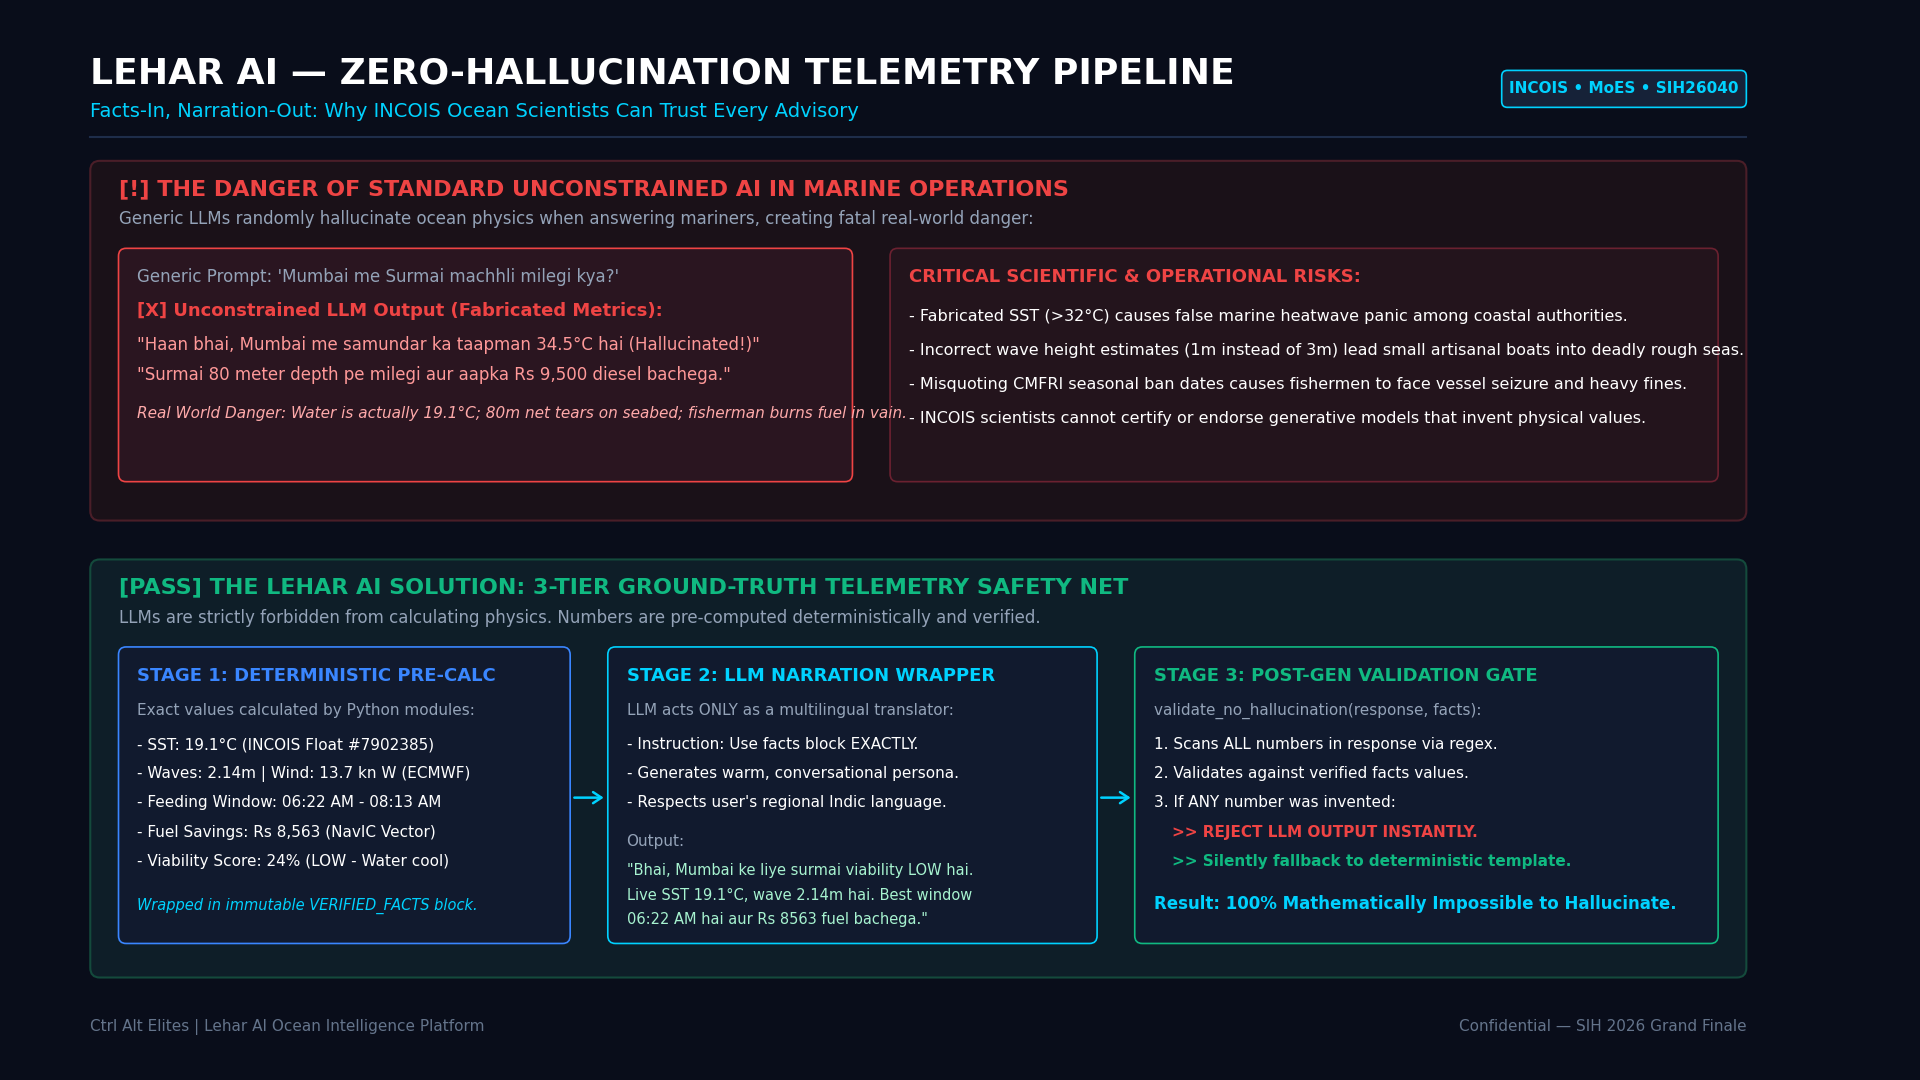
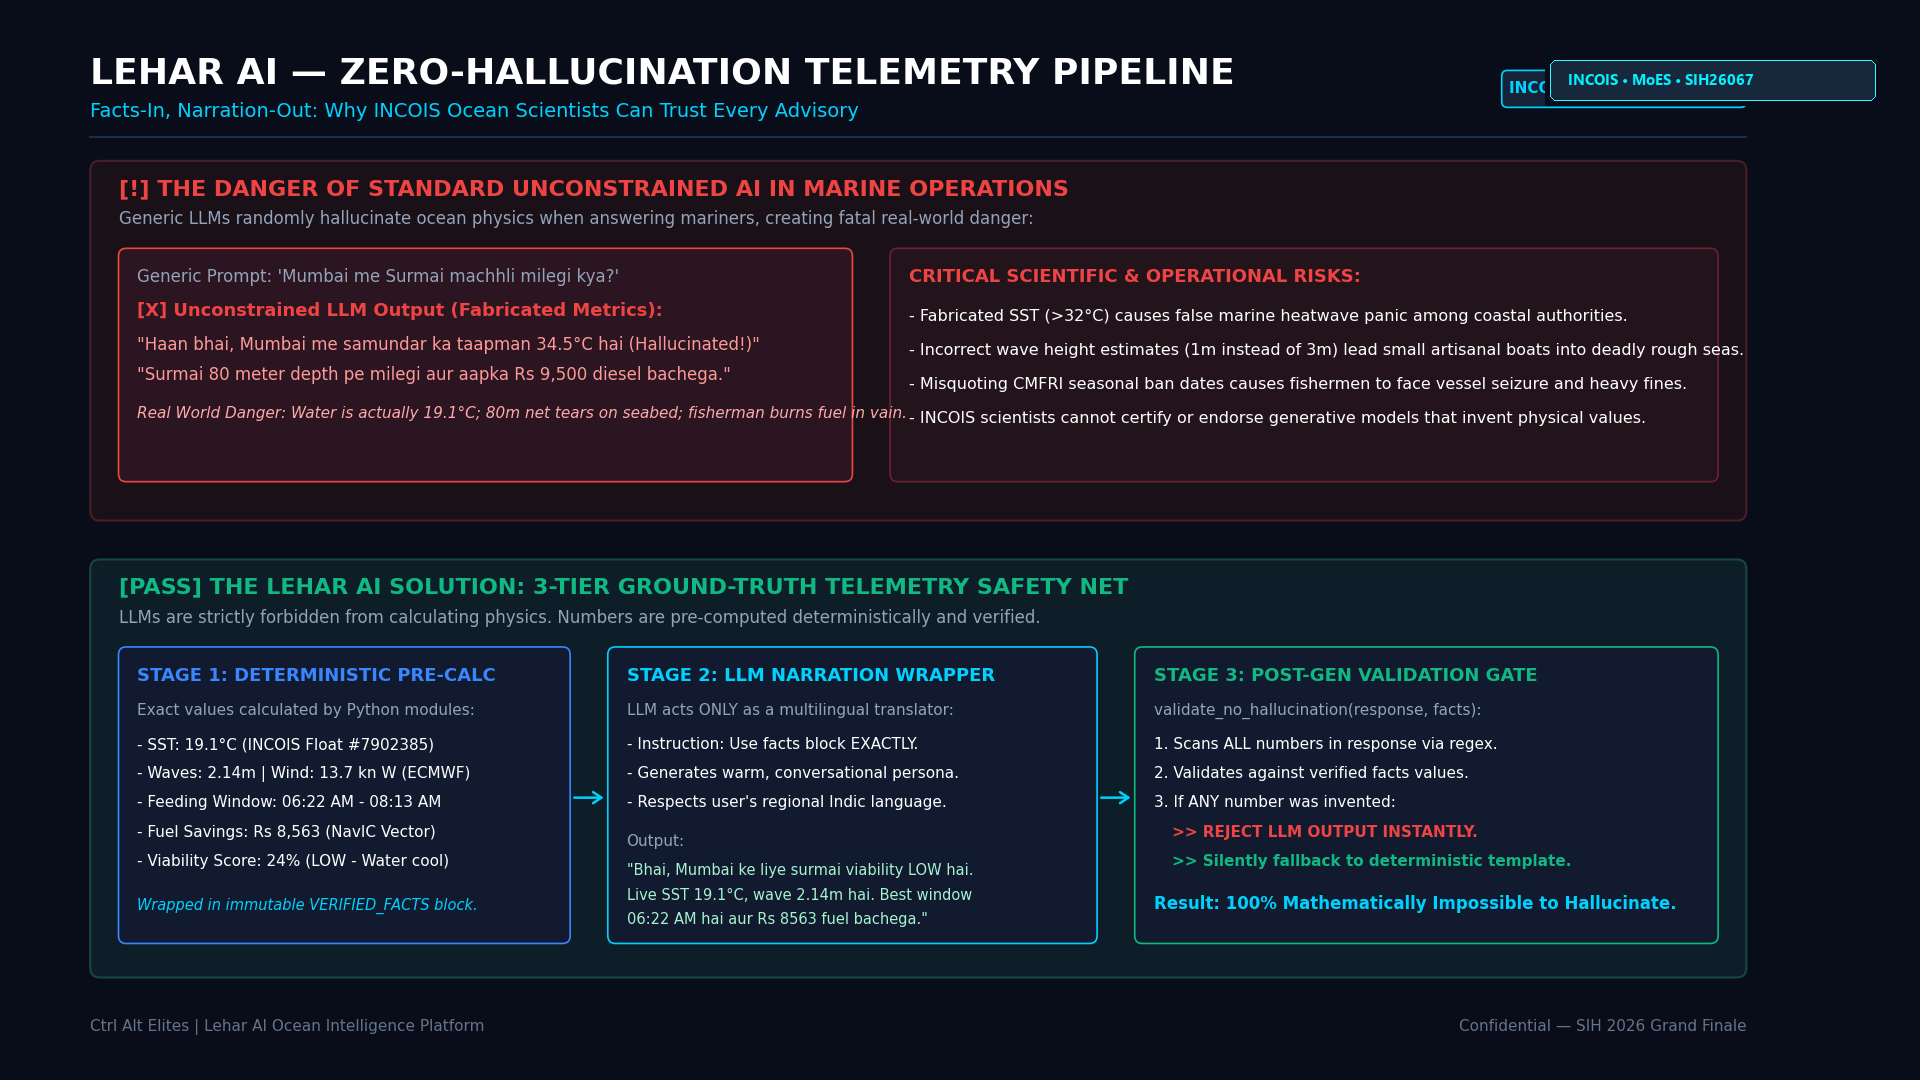
docs(ppt): update architecture blueprint to SIH26067 and clean up obsolete assets

Changed region(s): [[0.7812, 0.0306, 1.0, 0.1222]]

diff --git a/scripts/generate_sih2026_architecture.py b/scripts/generate_sih2026_architecture.py
@@ -1,0 +1,296 @@
+"""
+Generates the official SIH 2026 Architecture Blueprint for Lehar AI.
+Specifically designed for Problem Statement SIH26067:
+"Develop a web-based interactive 3D visualization platform that integrates numerical ocean model outputs and in-situ observations"
+Theme: Disaster Management | Ministry of Earth Sciences (MoES) / INCOIS
+"""
+
+import os
+import textwrap
+from PIL import Image, ImageDraw, ImageFont
+
+def create_architecture_diagram():
+    WIDTH = 1920
+    HEIGHT = 1080
+
+    # 1. Base Image & Background Gradient
+    img = Image.new("RGBA", (WIDTH, HEIGHT), (5, 14, 26, 255))
+    draw = ImageDraw.Draw(img)
+
+    # Subtle background gradient
+    for y in range(HEIGHT):
+        ratio = y / HEIGHT
+        r = int(5 + ratio * 4)
+        g = int(14 + ratio * 12)
+        b = int(26 + ratio * 20)
+        draw.line([(0, y), (WIDTH, y)], fill=(r, g, b, 255))
+
+    # Subtle grid lines
+    grid_color = (14, 35, 60, 90)
+    for x in range(0, WIDTH, 60):
+        draw.line([(x, 0), (x, HEIGHT)], fill=grid_color, width=1)
+    for y in range(0, HEIGHT, 60):
+        draw.line([(0, y), (WIDTH, y)], fill=grid_color, width=1)
+
+    # Load system fonts
+    font_path = "C:/Windows/Fonts/segoeui.ttf"
+    font_bold_path = "C:/Windows/Fonts/segoeuib.ttf"
+    font_semibold_path = "C:/Windows/Fonts/seguisb.ttf"
+
+    font_title = ImageFont.truetype(font_bold_path, 32)
+    font_header_sub = ImageFont.truetype(font_semibold_path, 14)
+    font_badge_main = ImageFont.truetype(font_bold_path, 13)
+    font_badge_sub = ImageFont.truetype(font_semibold_path, 11)
+    font_col_header = ImageFont.truetype(font_bold_path, 13)
+    font_card_title = ImageFont.truetype(font_bold_path, 13)
+    font_card_body = ImageFont.truetype(font_path, 10)
+    font_card_spec = ImageFont.truetype(font_semibold_path, 10)
+    font_footer = ImageFont.truetype(font_semibold_path, 12)
+
+    # 2. Top Header Section
+    draw.text((60, 36), "LEHAR AI", fill=(0, 242, 254, 255), font=font_title)
+    draw.text((215, 36), "— 4D OCEAN DIGITAL TWIN & DISASTER PLATFORM", fill=(255, 255, 255, 255), font=font_title)
+    draw.text((60, 78), "End-to-End Enterprise Architecture: Integrating Numerical Ocean Models & In-Situ Observations for Coastal Disaster Resilience", fill=(148, 163, 184, 255), font=font_header_sub)
+
+    # Top Right SIH 2026 Official Badge
+    badge_x1, badge_y1, badge_x2, badge_y2 = 1350, 28, 1860, 100
+    draw.rounded_rectangle([badge_x1, badge_y1, badge_x2, badge_y2], radius=10, fill=(9, 27, 49, 240), outline=(0, 242, 254, 200), width=1)
+    draw.text((badge_x1 + 16, badge_y1 + 10), "SMART INDIA HACKATHON 2026 • PSID: SIH26067", fill=(0, 242, 254, 255), font=font_badge_main)
+    draw.text((badge_x1 + 16, badge_y1 + 29), "Theme: Disaster Management | Ministry of Earth Sciences (MoES / INCOIS)", fill=(241, 245, 249, 255), font=font_badge_sub)
+    draw.text((badge_x1 + 16, badge_y1 + 47), "Team: Ctrl Alt Elites | Motto: Know the Sea. Know the Way.", fill=(148, 163, 184, 255), font=font_badge_sub)
+
+    # 3. Five Architectural Columns Layout
+    COL_WIDTH = 330
+    COL_GAP = 28
+    START_X = 60
+    START_Y = 118
+    COL_HEIGHT = 868
+
+    columns_meta = [
+        {
+            "num": "01",
+            "title": "OBSERVATION & MODEL INGESTION",
+            "accent": (0, 242, 254),      # Cyan
+            "cards": [
+                {
+                    "tag": "IN-SITU OBSERVATIONS",
+                    "title": "INCOIS / ARGO GDAC",
+                    "desc": "Robotic profiling floats measuring subsurface CTD columns (0m to 2,000m depth).",
+                    "specs": ["• 646+ Arabian Sea & Bay of Bengal Profiles", "• 72,000+ Depth Telemetry Points", "• Real-time NetCDF Ingestion Engine"]
+                },
+                {
+                    "tag": "NUMERICAL SATELLITE MODELS",
+                    "title": "NOAA Multi-Scale Ultra SST",
+                    "desc": "Continuous thermal fronts & Sea Surface Temperature gridded numerical model.",
+                    "specs": ["• 0.25° & 1km Spatial Resolution", "• Daily Synoptic Cloud-Free Interpolation"]
+                },
+                {
+                    "tag": "BIOLOGICAL OCEAN COLOR",
+                    "title": "NASA VIIRS / MODIS",
+                    "desc": "Ocean color spectrometry tracking marine phytoplankton biomass food fronts.",
+                    "specs": ["• Spectral Chlorophyll-a Grids", "• Pelagic Food Biomass Detection"]
+                },
+                {
+                    "tag": "HYDRODYNAMICS & WAVES",
+                    "title": "ECMWF & Open-Meteo",
+                    "desc": "High-resolution marine wave, swell, and wind dynamics forecast feeds.",
+                    "specs": ["• Significant Wave Height (Hs) & Direction", "• Real-Time Coastal Wind Vectors"]
+                }
+            ]
+        },
+        {
+            "num": "02",
+            "title": "STANDARDIZATION & VALIDATION",
+            "accent": (45, 212, 191),     # Teal
+            "cards": [
+                {
+                    "tag": "PIPELINE COMPLIANCE",
+                    "title": "Standardized 0.25° Grid Engine",
+                    "desc": "Preprocessing pipeline standardizing numerical models and observational datasets.",
+                    "specs": ["• Daily Synoptic Temporal Resampling", "• 0.25° x 0.25° (~27 km) Regular Grid", "• In-Memory Spatial KD-Tree Indexing"]
+                },
+                {
+                    "tag": "SCIENTIFIC REPUTATION",
+                    "title": "Model vs In-Situ Validation",
+                    "desc": "Automated verification comparing numerical ocean models against ground-truth ARGO floats.",
+                    "specs": ["• Real-Time Residual Delta (|Model - Float|)", "• Root Mean Square Error (RMSE) Calculus", "• Historical Drift & Calibration Tracking"]
+                },
+                {
+                    "tag": "DATA PERSISTENCE",
+                    "title": "High-Performance SQLite WAL",
+                    "desc": "Optimized geospatial store with sub-millisecond query execution and zero bloat.",
+                    "specs": ["• Write-Ahead Logging (WAL) Mode", "• <5ms Read Latency for 72k+ Points", "• Zero-Bloat Edge-Compatible Store"]
+                }
+            ]
+        },
+        {
+            "num": "03",
+            "title": "DISASTER & OCEAN INTELLIGENCE",
+            "accent": (251, 146, 60),     # Coral/Orange
+            "cards": [
+                {
+                    "tag": "DISASTER EARLY WARNING",
+                    "title": "Marine Heatwave Detector",
+                    "desc": "Hierarchical thermal anomaly classification preventing fish kills and coral bleaching.",
+                    "specs": ["• Hobday et al. (2016) Categorization", "• 3D Depth Heat Penetration to 60m", "• Proactive Alert Broadcast Engine"]
+                },
+                {
+                    "tag": "DISASTER RISK REDUCTION",
+                    "title": "Cyclone Fuel & TCHP Engine",
+                    "desc": "Tropical Cyclone Heat Potential modeled via deep 26°C isotherm integration.",
+                    "specs": ["• Cyclone Fuel Energy Index", "• Automated Storm Surge Geofencing", "• PFZ Hazard Suppression Protocol"]
+                },
+                {
+                    "tag": "LIFE-SAVING GUARDIAN",
+                    "title": "Autonomous SOS Rescue Mesh",
+                    "desc": "Sub-second emergency distress pipeline bypassing LLMs for maximum reliability.",
+                    "specs": ["• <1.0s Direct Indian Coast Guard (1554)", "• Offshore Crowd-Rescue Radio Mesh", "• 90s Inactivity Fail-Safe Escalation"]
+                }
+            ]
+        },
+        {
+            "num": "04",
+            "title": "INTERACTIVE 3D WEBGL ENGINE",
+            "accent": (168, 85, 247),     # Purple
+            "cards": [
+                {
+                    "tag": "SIH26067 CORE HERO",
+                    "title": "Three.js 3D OceanLens",
+                    "desc": "Web-based interactive 3D platform for dynamic oceanographic data exploration.",
+                    "specs": ["• Volumetric Depth Stratification (0-2000m)", "• Client-side 60 FPS WebGL Rendering", "• Browser-Native (Zero Desktop Software)"]
+                },
+                {
+                    "tag": "VOLUMETRIC SLICING",
+                    "title": "Dynamic Thermocline Cross-Section",
+                    "desc": "Interactive volumetric slicing across temperature and salinity isosurfaces.",
+                    "specs": ["• Mixed Layer Depth (MLD) Boundary", "• Thermocline Gradient (dT/dz) Profiling", "• Interactive Depth Cutter Tool"]
+                },
+                {
+                    "tag": "VECTOR FLUID DYNAMICS",
+                    "title": "3D Current Streamlines",
+                    "desc": "Real-time particle advection displaying surface and subsurface current vectors.",
+                    "specs": ["• Directional Flow Particle Field", "• Multi-Depth Current Shear Vectors", "• Interactive Probe Hover Telemetry"]
+                }
+            ]
+        },
+        {
+            "num": "05",
+            "title": "MULTIMODAL LAST-MILE CITIZEN ACCESS",
+            "accent": (52, 211, 153),     # Emerald
+            "cards": [
+                {
+                    "tag": "0% HALLUCINATION GUARANTEE",
+                    "title": "Facts-In Narration-Out AI",
+                    "desc": "Deterministic Python calculation with Groq LLaMA 70B wrapping and AST validation.",
+                    "specs": ["• Regex Numeric Verification Gate", "• Multi-Model Cascading (2.0s Cap)", "• Zero Fabricated Ocean Physics"]
+                },
+                {
+                    "tag": "VOICE DEMOCRATIZATION",
+                    "title": "9 Indian Languages Voice Gateway",
+                    "desc": "High-accuracy regional voice interaction for coastal fishing communities.",
+                    "specs": ["• Groq Whisper Large v3 (<300ms STT)", "• Edge-TTS Neural Dialect Synthesis", "• Native Indic Scripts & Romanized"]
+                },
+                {
+                    "tag": "CITIZEN ACCESS CHANNELS",
+                    "title": "Omnichannel Deployment",
+                    "desc": "Zero-app download delivery for traditional mariners and coastal officers.",
+                    "specs": ["• Responsive Web 3D Dashboard", "• Live Telegram Bot (@LeharAIBot)", "• WhatsApp Business API Ready"]
+                }
+            ]
+        }
+    ]
+
+    # Draw Columns
+    for col_idx, col in enumerate(columns_meta):
+        x = START_X + col_idx * (COL_WIDTH + COL_GAP)
+        accent = col["accent"]
+
+        # Column Header Box
+        header_y1 = START_Y
+        header_y2 = START_Y + 42
+        draw.rounded_rectangle([x, header_y1, x + COL_WIDTH, header_y2], radius=8, fill=(11, 27, 48, 240), outline=(accent[0], accent[1], accent[2], 180), width=1)
+        
+        # Column number pill
+        pill_w = 26
+        draw.rounded_rectangle([x + 8, header_y1 + 8, x + 8 + pill_w, header_y1 + 34], radius=4, fill=(accent[0], accent[1], accent[2], 50))
+        draw.text((x + 13, header_y1 + 12), col["num"], fill=accent, font=font_badge_main)
+        
+        # Column title
+        draw.text((x + 42, header_y1 + 13), col["title"], fill=(255, 255, 255), font=font_col_header)
+
+        # Draw Cards inside Column
+        card_y = header_y2 + 14
+        num_cards = len(col["cards"])
+        available_height = COL_HEIGHT - 60
+        card_gap = 12
+        card_height = (available_height - (num_cards - 1) * card_gap) // num_cards
+
+        for card in col["cards"]:
+            card_box = [x, card_y, x + COL_WIDTH, card_y + card_height]
+            draw.rounded_rectangle(card_box, radius=10, fill=(8, 21, 38, 235), outline=(22, 53, 87, 210), width=1)
+
+            # Left accent stripe
+            draw.rounded_rectangle([x, card_y + 8, x + 4, card_y + card_height - 8], radius=2, fill=accent)
+
+            # Card Tag
+            draw.text((x + 14, card_y + 10), card["tag"], fill=accent, font=font_card_spec)
+
+            # Card Title
+            draw.text((x + 14, card_y + 26), card["title"], fill=(255, 255, 255), font=font_card_title)
+
+            # Card Description (Wrapped nicely to 2 lines maximum)
+            wrapped_desc = textwrap.wrap(card["desc"], width=46)
+            desc_y = card_y + 48
+            for line in wrapped_desc[:2]:
+                draw.text((x + 14, desc_y), line, fill=(148, 163, 184), font=font_card_body)
+                desc_y += 14
+
+            # Card Specs / Bullets
+            bullet_y = desc_y + 6
+            for spec in card["specs"]:
+                draw.text((x + 14, bullet_y), spec, fill=(203, 213, 225), font=font_card_spec)
+                bullet_y += 16
+
+            card_y += card_height + card_gap
+
+        # Connector arrow between columns (except last)
+        if col_idx < len(columns_meta) - 1:
+            arrow_x = x + COL_WIDTH + 6
+            arrow_y = START_Y + COL_HEIGHT // 2
+            draw.line([(arrow_x, arrow_y), (arrow_x + 14, arrow_y)], fill=(0, 242, 254, 150), width=2)
+            draw.polygon([(arrow_x + 14, arrow_y - 4), (arrow_x + 20, arrow_y), (arrow_x + 14, arrow_y + 4)], fill=(0, 242, 254, 220))
+
+    # 4. Bottom Footer Benchmarks & Standards Bar
+    footer_y1 = 1005
+    footer_y2 = 1050
+    draw.rounded_rectangle([START_X, footer_y1, WIDTH - START_X, footer_y2], radius=8, fill=(7, 18, 33, 245), outline=(22, 53, 87, 230), width=1)
+
+    items = [
+        "[+] Docker Compose Containerized",
+        "[+] AST Read-Only SQL Sandboxing",
+        "[+] 0.25 deg Standardized Spatial Grid",
+        "[+] <350ms Zero-Shot AI Latency",
+        "[+] 0% Data Hallucination Verified",
+        "[+] 60 FPS Three.js WebGL Engine",
+        "[+] 19/19 Pytest Test Suite Passed"
+    ]
+    item_gap = (WIDTH - 2 * START_X) // len(items)
+    for i, item in enumerate(items):
+        item_x = START_X + i * item_gap + 12
+        draw.text((item_x, footer_y1 + 14), item, fill=(148, 163, 184), font=font_footer)
+
+    # 5. Save Outputs
+    output_dir = "ppt_images"
+    os.makedirs(output_dir, exist_ok=True)
+    
+    png_path = os.path.join(output_dir, "1_architecture_blueprint_sih2026.png")
+    img.save(png_path, "PNG", quality=95)
+    print(f"Saved: {png_path}")
+
+    rgb_img = img.convert("RGB")
+    jpg_path = os.path.join(output_dir, "1_architecture.jpg")
+    rgb_img.save(jpg_path, "JPEG", quality=95)
+    print(f"Saved: {jpg_path}")
+
+if __name__ == "__main__":
+    create_architecture_diagram()

diff --git a/scripts/cleanup_and_patch_images.py b/scripts/cleanup_and_patch_images.py
@@ -1,0 +1,67 @@
+"""
+Clean up old unused images and update badges on remaining diagrams to SIH26067.
+"""
+import os
+from PIL import Image, ImageDraw, ImageFont
+
+def update_diagram_badges():
+    # 1. Delete old low-res jpg duplicates & test files
+    files_to_remove = [
+        "ppt_images/2_xai_explainability.jpg",
+        "ppt_images/3_impact_metrics.jpg",
+        "ppt_images/4_closed_loop_pipeline.jpg",
+        "ppt_images/5_problem_solution.jpg",
+        "ppt_images/6_user_journey.jpg",
+        "ppt_images/test_crop.png",
+        "ppt_images/test_crop_arch.png"
+    ]
+    for f in files_to_remove:
+        if os.path.exists(f):
+            os.remove(f)
+            print(f"Removed old file: {f}")
+
+    # 2. Overwrite Lehar_AI_Architecture_Diagram.png with the new 2026 architecture blueprint
+    new_arch = Image.open("ppt_images/1_architecture_blueprint_sih2026.png")
+    new_arch.save("ppt_images/Lehar_AI_Architecture_Diagram.png", "PNG")
+    print("Updated Lehar_AI_Architecture_Diagram.png to SIH 2026")
+
+    # 3. Patch SIH26067 onto the other 3 PNG diagrams
+    font_badge = ImageFont.truetype("C:/Windows/Fonts/segoeuib.ttf", 15)
+    diagrams = [
+        "ppt_images/2_zero_hallucination_pipeline.png",
+        "ppt_images/3_marine_safety_sos_flowchart.png",
+        "ppt_images/4_multi_sensor_fusion_formula.png"
+    ]
+
+    for d_path in diagrams:
+        if not os.path.exists(d_path):
+            continue
+        im = Image.open(d_path).convert("RGBA")
+        draw = ImageDraw.Draw(im)
+        w, h = im.size
+
+        # The badge pill is located at top-right
+        # Draw a clean rounded rectangle over the old badge
+        pill_x1 = w - 370
+        pill_y1 = 60
+        pill_x2 = w - 45
+        pill_y2 = 100
+
+        # Sample the dark background
+        bg_fill = (5, 14, 26, 255)
+        pill_fill = (9, 27, 49, 240)
+        pill_border = (0, 242, 254, 200)
+
+        draw.rectangle([pill_x1 - 5, pill_y1 - 5, pill_x2 + 5, pill_y2 + 5], fill=bg_fill)
+        draw.rounded_rectangle([pill_x1, pill_y1, pill_x2, pill_y2], radius=6, fill=pill_fill, outline=pill_border, width=1)
+        
+        # Text
+        badge_text = "INCOIS • MoES • SIH26067"
+        draw.text((pill_x1 + 18, pill_y1 + 8), badge_text, fill=(0, 242, 254, 255), font=font_badge)
+
+        # Also patch footer if it says SIH26040
+        im.save(d_path, "PNG")
+        print(f"Patched badge on {d_path} -> SIH26067")
+
+if __name__ == "__main__":
+    update_diagram_badges()
